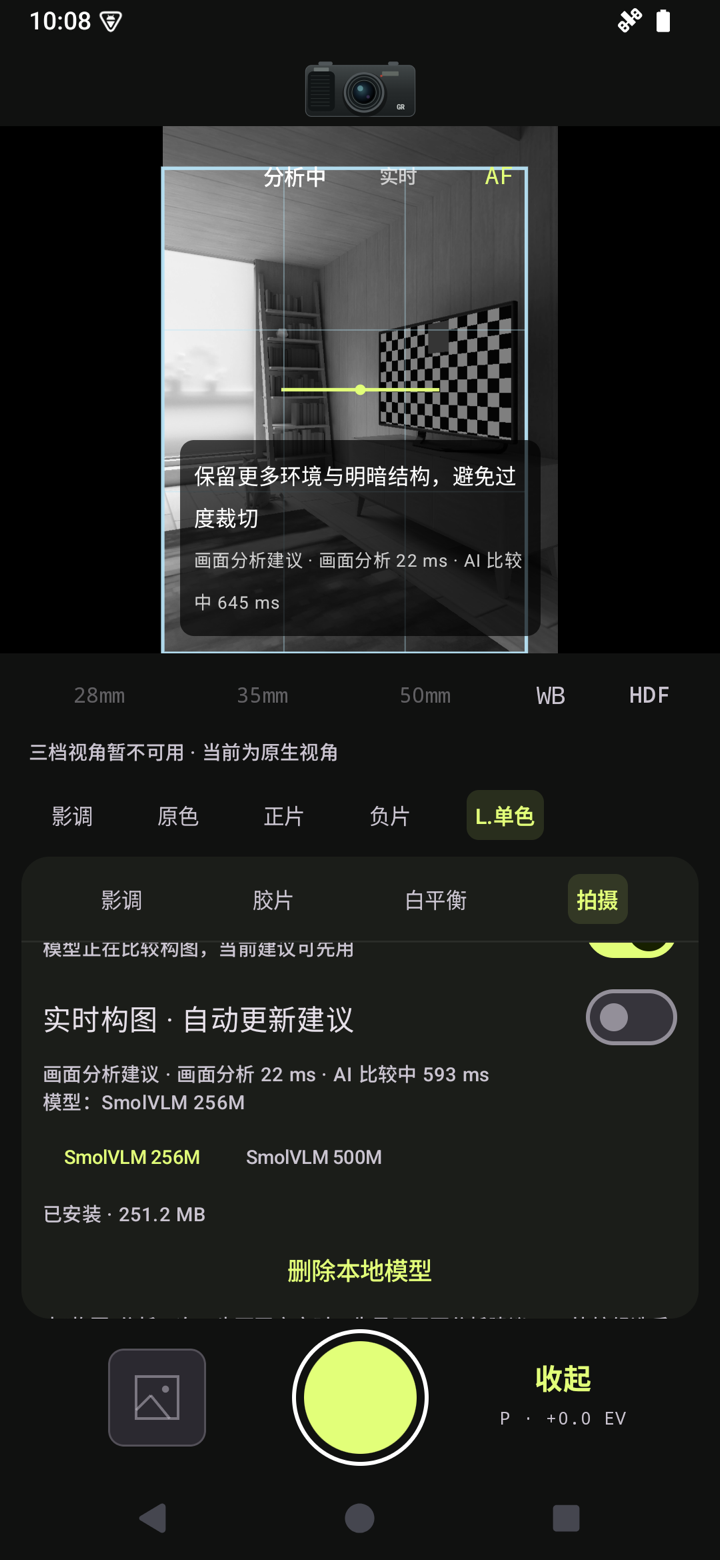
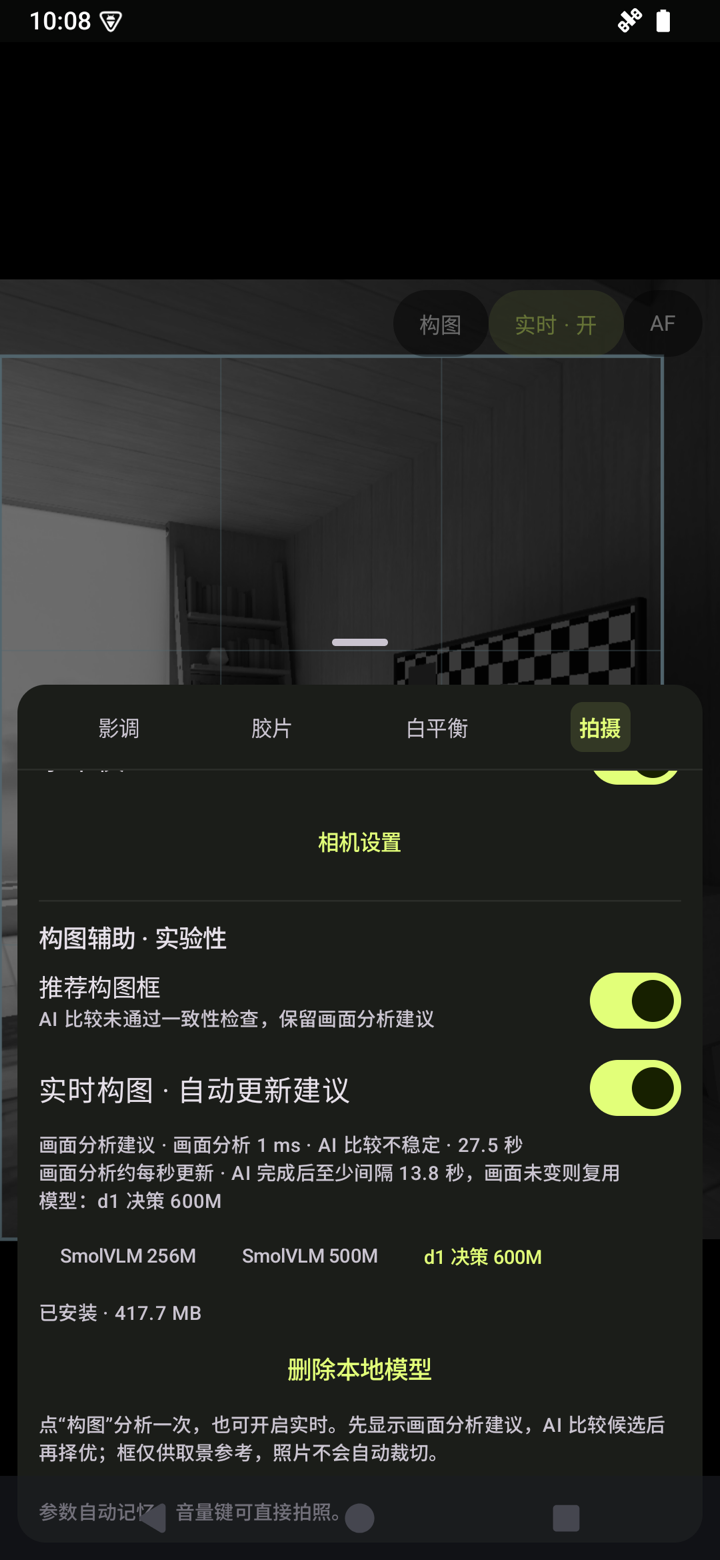
docs: refresh README for current app, d1 advisor pipeline and new UI screenshots
Rewrite the README around what the app actually is at v0.3: full-screen
viewfinder with floating shutter bar and sheeted controls, and explain
the composition advisor from two angles — a product/lifecycle diagram
(when each layer returns or falls back) and a technical diagram (rule
advisor -> contact sheet -> d1/SmolVLM ONNX ranker -> selection gate).
Replace SmolVLM-256M-as-current sections with the d1-omni-600M default
and the optional model table, trim duplicated/obsolete content, and
refresh screenshots to the new interface.

diff --git a/README.md b/README.md
@@ -1,256 +1,164 @@
 # street-snap · 途帧
 
-喜欢口袋相机，也喜欢它们各自的脾气：熟悉的视角、顺手的快门，还有一眼认得出的颜色。途帧于手机之上：收束纷扰，快门轻触，影调自调。途遇，帧藏。
+喜欢口袋相机，也喜欢它们各自的脾气：熟悉的视角、顺手的快门，一眼认得出的颜色。途帧于手机之上：收束纷扰，快门轻触，影调自调。途遇，帧藏。
 
-**street-snap: Open-source cross-platform documentary camera (iOS/Android), crafted for the serendipity of street capture.**
+**Open-source Android street camera: a full-screen viewfinder, Snap-style capture, film-inspired color, and an optional on-device composition advisor — no cloud, no account.**
 
 [![Status: Development](https://img.shields.io/badge/status-development-f59e0b?style=flat-square)](#roadmap)
 [![Android: v0.3 dev](https://img.shields.io/badge/Android-v0.3%20dev-3DDC84?style=flat-square&logo=android&logoColor=white)](#安装与发布)
-[![iOS: Later](https://img.shields.io/badge/iOS-later-64748b?style=flat-square&logo=apple&logoColor=white)](#安装与发布)
+[![iOS: Later](https://img.shields.io/badge/iOS-later-64748b?style=flat-square&logo=apple&logoColor=white)](#roadmap)
 [![License: MIT](https://img.shields.io/badge/license-MIT-3b82f6?style=flat-square)](LICENSE)
-
 [![Kotlin: 2.2.10](https://img.shields.io/badge/Kotlin-2.2.10-7F52FF?style=flat-square&logo=kotlin&logoColor=white)](#技术栈)
-[![Swift: Later](https://img.shields.io/badge/Swift-later-F05138?style=flat-square&logo=swift&logoColor=white)](#技术栈)
+[![On-device AI](https://img.shields.io/badge/on--device%20AI-optional-22c55e?style=flat-square)](#构图建议怎么跑起来的)
 
-[![Focal lengths: 28 / 35 / 50mm](https://img.shields.io/badge/focal%20lengths-28%20%2F%2035%20%2F%2050mm-64748b?style=flat-square)](#快捷街拍)
-[![Shooting: Snap](https://img.shields.io/badge/shooting-Snap-f59e0b?style=flat-square)](#快捷街拍)
-[![Custom LUT: .cube](https://img.shields.io/badge/custom%20LUT-.cube-a855f7?style=flat-square)](#行色--xingse)
-[![Recipes: JSON](https://img.shields.io/badge/recipes-JSON-22c55e?style=flat-square&logo=json&logoColor=white)](#行色--xingse)
+## 为什么做途帧
 
-## Why
+手机相机的功能越来越多，但街头抓拍没有多少时间留给菜单和模式切换。途帧以理光 GR 这类随身相机的就绪速度为参照：**启动快、操作少、体积轻**，只保留 **28 / 35 / 50mm** 三档等效视角，把准备工作前置（预设曝光、对焦、影调并自动记忆），举机即拍。
 
-手机相机的功能越来越多，但街头抓拍没有多少时间留给菜单和模式切换。
+`v0.3.0-dev` 已把拍摄前的主要决定收进一块从底部升起的控制面板：默认取景页只剩全屏画面、居中快门、焦段与一个"调整"入口；影调、胶片配方、白平衡、P/S/M 与构图模型管理都在面板里。任何手动覆盖（非自动白平衡、MF、S/M 档、EV、柔光）都会在快门上方显示一枚小药丸：点按直达对应设置，**长按一键复位**，避免忘记手动状态毁掉整组照片。
 
-途帧只保留 **28 / 35 / 50mm** 三档等效视角，搭配 Snap 快拍和可自定义的影调，让取景、设定和按下快门成为熟悉的拍摄习惯。
+- **举起即拍**：快门居中、零确认、无边框打印；音量键可当快门；点按对焦、长按锁焦。
+- **三档视角**：28 / 35 / 50mm 等效焦段（按设备 Camera2 能力开放，不支持的档位不点亮）。
+- **真实手动能力**：P / S / M 曝光档、EV、AF / MF、白平衡预设与 A–B / G–M 漂移、HDF 软件柔光；固定光圈手机不伪造 A 档。
+- **行色调色**：原色、正片、负片、粉末蓝、高反差黑白、晴街等内置影调，7 套参考真实胶片型号调校的配方，支持导入 `.cube` LUT，每套影调十项参数独立微调并记忆。
+- **本地构图辅助（实验性）**：取景器上实时显示推荐构图框和一句中文建议；规则层免下载直接可用，端侧模型按需下载、全程离线。
+- 免费、无广告、无内购。照片直接写入系统相册（带 EXIF JPEG），不读取图库。
 
-街头抓拍留给你的时间很短。以理光 GR 这类随身相机快速就绪的抓拍体验为参照，途帧希望做到**启动快、操作少、体积轻**，抓住街头的决定性瞬间。
+> **Android 预览开发中，最低 Android 12。** 首测真机为荣耀 Vs3；相机能力、折叠屏与性能数据仍以真机验证为准，模拟器截图不代表实拍效果。iOS 后续启动。
 
-**预设参数 → 快速启动 → 取景确认 → 按下快门**
+## 界面
 
-借鉴 **Snap 快拍**的思路，把准备工作前置：提前设好曝光参数，并在设备支持时预设对焦，减少拍摄时的临场调整。举机取景时，通过参考框、网格、水平仪和影调预览确认画面；熟悉视角后，也可以尝试不看屏幕的盲拍。
+| 全屏取景与构图建议 | 控制面板（底部浮层） | 端侧模型管理 |
+| :---: | :---: | :---: |
+| <img src="docs/images/viewfinder.png" width="250" alt="途帧取景界面：全屏预览、三分网格、推荐构图框与中文建议、底部悬浮焦段条、居中快门与调整入口"> | <img src="docs/images/camera-picker.png" width="250" alt="相机摆件选择器与自动、横持、竖持取景方向"> | <img src="docs/images/edge-models.png" width="250" alt="构图辅助设置：实时开关、三个可选端侧模型、已安装 417.7MB 的 d1 决策 600M"> |
 
-围绕这条拍摄流程，计划做到：
+第一张为模拟器内置测试房间实拍截图；蓝色框是画面分析（规则）建议，黄色框只在端侧模型通过门闸采纳时出现。宽横屏（≥600dp）自动切换为侧边控制栏，单手触达。
 
-- **Fast launch · 极致启动**：精简初始化，快速进入可拍状态。
-- **28 / 35 / 50mm**：三档经典等效视角，用熟悉的取景范围形成构图直觉。
-- **Snap first**：提前设好参数，服务于举机快拍与熟悉视角后的盲拍。
-- **Live view**：在取景时看到构图辅助、参数变化和影调效果。
-- **Custom LUTs**：加载自己的 LUT，调整影调参数，保存为配方。
-- **Small footprint**：精简依赖，结合代码裁剪与资源压缩，尽可能缩小安装包体积。
-- **Fork & tweak**：拍摄、调色代码和内置预设一同开源，欢迎修改代码、制作预设、提交 PR。
+## 构图建议怎么跑起来的
 
-### 当前 Android 预览
+点一下取景器上的 **构图** 分析当前帧，也可以开 **实时**：规则层每秒约 2–4 次产出候选，模型低频复核。推荐框只用于帮助取景，**照片永远保存完整画面**，不会自动裁切，也不改变曝光、对焦或变焦。
 
-`v0.3.0-dev` 已把拍摄前的主要决定收进取景界面：28 / 35 / 50mm 视角、P / S / M 曝光档、EV、AF / MF、白平衡与 A–B / G–M 漂移、HDF 柔光和按相机分类的影调。**复位**会回到 P、EV 0、解除焦点锁并在设备支持时恢复 AF，同时保留焦段、白平衡和当前影调。固定光圈的手机不会伪造 A 档；S / M 也只在 Camera2 报告相应能力时出现。取景方向可以在自动、横持和竖持之间选择，横持布局会把主要控制集中到侧边，方便街拍时单手触达。
-
-拍摄完成后直接保存带 EXIF 的 JPEG，不再叠加边框、日期或“已保存”确认流程。影调卡片使用真实存在的胶片型号作为风格参考，包装图形和配方由项目独立绘制，不代表厂商原厂输出。
-
-项目坚持免费、无广告、无内购。
-
-> **Android 一期开发中，最低支持 Android 12。** 仓库已包含应用源码，首测设备为荣耀 Vs3；相机、GPU 与折叠屏行为仍需真机验证。iOS 后续启动。详见 [一期计划](docs/android-v0.1-plan.md) 与 [开发说明](docs/android-development.md)。
-
-[功能规划](#功能规划) · [技术栈](#技术栈) · [Roadmap](#roadmap) · [安装与发布](#安装与发布) · [Contributing](#contributing) · [开源协议与名称使用](#开源协议与名称使用)
-
-## 功能规划
-
-以下为完整产品范围。一期优先完成 Android 拍照与行色流程，具体支持范围以版本说明和真机验证结果为准。
-
-### 快捷街拍
-
-- **Snap 快拍**：保存并快速调用曝光、影调等常用设置；在镜头与系统 API 支持时预设或锁定对焦，减少拍摄时等待自动对焦的过程。
-- **预设对焦与景深**：规划支持区域对焦的使用方式，让预先选定的距离范围保持可接受的清晰度；可用的对焦设置与实际清晰范围需按镜头验证。
-- **三档视角**：28mm / 35mm / 50mm 等效焦段，一键切换。
-- **盲拍与单手操作**：音量键快门、ADJ 式参数快调，减少对屏幕操作的依赖。
-- **构图辅助**：点“构图”分析当前画面，显示推荐构图框与一句建议；也可开启实时更新。先用图像分析生成候选，再由本地模型比较，分别标明建议来源。
-- **对焦辅助**：规划实时黑白取景与峰值对焦，帮助观察光影和判断手动对焦范围。
-
-手机同样有景深与超焦距的概念，部分广角镜头可以利用较大景深获得近似“泛焦”的效果。Snap 指预设后快速拍摄的方式；泛焦描述较大范围内可接受清晰的效果，实际范围取决于镜头、对焦设置与清晰度要求。
-
-#### Local-first composition · 本地构图（实验性）
-
-点一下取景器上的 **构图**，得到推荐的画面范围与一句中文建议；**实时**开关可选。推荐框用于帮助取景，照片仍保存完整画面，不自动改变曝光、对焦或变焦。这里需要的是构图裁切建议，当前界面不显示主体检测框。
+### 业务视角：一次建议的生命周期（什么时候返回、什么时候放弃）
 
 ```text
-点“构图” / 开启实时
-  → 当前取景帧
-  → 图像对比、边缘、视觉重心、三分位置、裁切风险
-  → 三个合法裁切候选 → 立即显示“画面分析建议”＋一句中文提示
-                        └→ A/B/C 裁切对照图 → 本地 SmolVLM 比较
-                            → 支持度、差距、换序一致性与场景校验 → 有依据才更新为“AI 选择”
+举起手机（快门始终独立可用，构图分析永不阻塞拍摄）
+  │
+  ├─ 点「构图」   → 只分析这一帧
+  └─ 开「实时」   → 每 ~250ms 规则分析一帧；模型完成后冷却 3–15s，画面不变就复用
+        ▼
+  规则层 FastCompositionAdvisor（纯 Kotlin 图像统计，通常 1–10ms）
+        ▼
+  ① 立即返回：画面分析建议——一个框 + 一句中文建议，先有东西可看
+        ▼
+  需要模型复核吗？（低纹理 / 未装模型 → 否，流程到此结束）
+        ▼ 是
+  本地模型对同一帧的 A/B/C 三个候选做一次"选择题"（单并发，30s 总预算）
+        ▼
+  门闸：领先差距足够大？换序后选择一致？场景没变化、帧没过期？
+     ├─ 全部通过 → ② 升级为「模型选择」黄框（文案仍来自规则理由，不伪造模型发言）
+     └─ 任一不过 → 保持 ① 的蓝框，界面如实标注"AI 比较不稳定/超时"
+        ▼
+  画面明显变化 → 旧框立即失效；静止场景 → 同框同文案不重发，减少闪烁
 ```
 
-**先提供可见建议，再做模型比较。** 快速算法直接从当前图像计算坐标；模型只比较候选，不再尝试生成四个坐标。SmolVLM 的视觉编码、文本嵌入、解码器是同一个模型的三个 ONNX 部件。每个候选排列使用一次视觉编码与一次 decoder prefill，读取 A/B/C 的 token 分数，不生成长段文字。首轮有选择时再循环换序比较，只有映射回同一候选才采纳；低纹理画面跳过模型。Compose 负责画框和显示中文提示，提示来自候选的规则理由，不伪装成模型自由生成的解释。
+关键产品原则：**先给可见建议，再做模型比较；模型任何环节失败，体验都退回到规则层而不是空白。** 模型输出的只是"A/B/C 选谁"，不直接生成坐标，框坐标始终来自 App 自己的规则层。
 
-画面分析和模型比较分别显示耗时。模型未安装、加载中、未明确选择或失败时，仍可显示来源明确的画面分析建议；场景变化后清除旧结果。手动模式一次请求完成即停止分析；实时模式低频更新，模型单并发、完成后冷却，静止场景复用结果，快门独立可用。
+### 技术视角：推理链路上每一环是什么
 
-此前“无有效框”源于任务适配问题：真实图像已送入模型，但直接生成坐标常得到全零、残缺内容或描述。构图质量不能靠“能返回 A/B/C”证明；需要测试候选重排、内容变化、低纹理画面和人工偏好。更懂构图的准备阶段应包括评价标准、许可清楚的裁切样本、人工优劣标注、独立测试集，再评估是否训练/微调及量化。本项目本轮未训练模型。完整前置与运行 SOP 见 [端侧构图建议 SOP](docs/composition-pipeline-sop.md)。
-
-当前运行 `SmolVLM 256M`，本地内置包使用已有固定 revision 的 `cpu-int8` 配置，7 个运行文件共 251.24 MiB。默认 Preview 不含权重，显式内置包约 300 MB，首次在前台启用构图辅助时导入。`compact` 173.9 MiB 配置保留供对照；YOLO 和 d1-omni 没有接入，本轮推荐框不依赖它们。模型与分发细节见 [模型附录](docs/edge-model-plan.md)。荣耀 Vs3 的速度、温升和主观构图质量仍需真机评估。
-
-本轮模拟器已实际显示推荐框和中文建议：规则首次计算69 ms、再次47 ms，实时预热后多数1–5 ms；这些数值不包含取帧和显示调度。SmolVLM候选换序和纯色对照暴露了位置偏好，因此增加一致性检查。前台双排列比较样本约9.5–11.4秒，未给出可采纳选择时保留规则框；不能宣称模型已经懂构图。手动/实时、横屏重绑、旧结果失效与推理中拍照已验证，细节见SOP。
-
-本地模型内置构建（权重不会进入 Git）需要先准备 `/Users/haoxuanli/Downloads/street-snap-models/smolvlm-256m/`，然后执行：
-
-```sh
-mkdir -p .tooling
-python3 scripts/check_smolvlm_bundle.py \
-  "$HOME/Downloads/street-snap-models/smolvlm-256m" \
-  --profile cpu-int8 --manifest .tooling/first-frame-cpu-int8-manifest.json
-./gradlew :app:assembleDebug \
-  -PedgeModelDir="$HOME/Downloads/street-snap-models/smolvlm-256m" \
-  -PedgeModelManifest=.tooling/first-frame-cpu-int8-manifest.json --offline
+```text
+CameraX ImageAnalysis（YUV → 独立 RGB 帧 + 场景签名）
+        │
+        ▼
+FastCompositionAdvisor（Kotlin 规则，不是神经网络）
+  96px 缩略图：Sobel 边缘与梯度方向 · 视觉重心 · 分带能量 · 左右对称 ·
+  三分位置契合 · 边缘切割风险 · 裁切信息保留率
+        │ 3 个等比例合法裁切框 + 构图风格标签 + 中文理由（11 类构图语言）
+        ▼
+CandidateContactSheet：同一帧三个裁片拼成 A/B/C 对照图
+        │ （不夹带规则分数/高亮，防止把排序泄露给模型）
+        ▼
+CandidateRanker —— 本地 ONNX Runtime（arm64 精简切片，约 6.7MB）
+  ├─ d1-omni-600M「d1 决策 600M」——当前推荐，417.7MB，q4 量化
+  │    vision_encoder（512² / 32×32 patch）→ embed_tokens（官方 prompt.py
+  │    选择序列）→ decision_q4 双向决策头：零生成 token，
+  │    直接对 A/B/C 三个 marker 的 logits softmax
+  └─ SmolVLM 256M / 500M —— 可选对照，cpu-int8 量化
+       vision + text embeddings + decoder prefill：读末位 A/B/C logits，
+       同样不生成坐标文本
+        ▼
+CandidateSelectionGate（实验阈值 0.10，未经审美标注校准）
+  top-1/top-2 概率差 · 首轮选择后换序再比一次须一致 ·
+  场景/帧龄校验 · 30s 预算 · 推理忙时直接返回 null
+        ▼
+Compose 叠加层：框（黄=模型选择 / 蓝=画面分析）+ 中文建议 + 来源与耗时
 ```
 
-校验脚本只使用已有本地文件；`cpu-int8` 要求三张图均为 Int8，不会静默混入 Q4。`edgeModelDir` 配合 `edgeModelManifest` 只打包清单选中的 7 个运行文件，普通 `assemblePreview` 会清理残留 staging。模型、清单与 APK 均不提交 Git；较小的 `compact` 配置及复现细节见模型附录。
+模型权重 **不随 APK 分发**：在"调整 → 拍摄 → 构图辅助"里显式下载、校验 SHA-256、可随时删除。三个模型固定 Hugging Face revision：
 
-### 行色 / Xingse
+| 模型 | 大小 | 形态 | 许可 |
+| --- | --- | --- | --- |
+| d1-omni-600M（默认） | 417.7MB | 视觉决策模型，marker 选择题，零生成 token | LFM Open License v1.0 |
+| SmolVLM 256M | 251.2MB | 小型 VLM，decoder prefill 读选项分 | 模型方许可 |
+| SmolVLM 500M | 约 347MB | 同上，更大规格 | 模型方许可 |
+
+**证据纪律**：模型目前的状态是 loaded-only——链路在 Android 模拟器真版权重上跑通（一轮 margin 0.21 采纳、一轮超时降级均符合契约），但合成探针评测显示小模型存在明显的位置偏好（见 [SOP](docs/composition-pipeline-sop.md)），一次加强题面的 prompt 改版经 20 张隔离 sheet 预注册评测被否决、已回退锁定。**"能返回 A/B/C"不构成审美证据**，下一步质量证据来自独立人工标注照片集；真机速度（荣耀 Vs3）同样待验。详见 [端侧构图建议 SOP](docs/composition-pipeline-sop.md) 与 [端侧模型说明](docs/edge-model-plan.md)。
+
+## 行色 / Xingse
 
 > 沿途所见，自有其色。
 
-「行色」是途帧的调色模块，使用 **3D LUT** 调整颜色，并提供颗粒、暗角等效果。Android 首版支持导入 LUT、调整参数和本地参数记忆；配方分享后续支持。你也可以直接修改调色代码。
+「行色」是调色模块，使用 **3D LUT** 调整颜色，并提供颗粒、暗角等效果；取景预览与成片共用同一套算法。
 
-- **内置影调**：原色、正片、负片、粉末蓝、黑白、晴街，均为独立创作的预设。
-- **参考风格**：参考理光 GR、富士、适马、松下等相机作品中的纪实影调，自主调校色彩，以独立预设名称呈现。
-- **LUT I/O**：支持 SDR `.cube` LUT 导入；导出后续支持。
-- **JSON 配方**：本地保存拍摄参数与各套影调的调节值，配方分享后续支持。
-- **质感调节**：饱和度、锐度、清晰度、颗粒、暗角等参数可调，并提供软件柔光。
-- **实时预览**：取景与成片共用调色算法，通过真机验证逐步改善流畅度及效果一致性。
-- **源码与预设**：调色代码与内置影调预设随项目一同开源，欢迎修改和分享。
-
-Android 开发版提供原色、正片、负片、粉末蓝、黑白、晴街六套影调，支持自定义 LUT。正片、负片参考 GR 同类影调方向，粉末蓝参考适马官方描述，均由项目独立调校；效果需结合手机实拍评估。
-
-每套影调可单独调整饱和度、色相、对比、亮度、高光、阴影、锐度、清晰度、颗粒与暗角。HDF 按钮切换软件高光柔光，WB 提供设备支持的白平衡预设及 A–B / G–M 漂移。常用控制集中在快门附近，调参时保留取景。详见 [v0.2 试拍说明](docs/android-v0.2-notes.md)。
-
-以下为影调命名与后续调校方向：
-
-| 影调 | 设计方向 |
-| --- | --- |
-| 晴街 | 明亮、通透，适合日光下的街头 |
-| 暮巷 | 低饱和、暖高光，适合傍晚与巷陌 |
-| 夜行 | 冷色暗部，保留夜色与霓虹的层次 |
-| 街影 | 高对比黑白，强调人物轮廓与光影 |
-
-影调效果用于预览和处理后的照片。若同时保存 RAW，RAW 文件保留原始图像数据，不将影调效果直接写入原始数据。
-
-### 图像与拍摄参数
-
-- 保存处理后的照片，并在设备及系统 API 支持时提供 RAW / DNG 输出。
-- 写入系统可提供的 EXIF 拍摄元数据；位置等敏感信息的写入方式将在权限设计中明确。
-- 规划使用 JSON 保存和分享拍摄参数方案；导入时根据设备能力检查适配情况。
-- P / S / M 映射到真实 Camera2 曝光控制；固定光圈设备不模拟 A 档，设备不支持的档位不会显示。
-- 「复位」恢复 P、EV 0、焦点锁和 AF（设备支持时），保留焦段、白平衡与影调配方。
-
-### Native camera APIs
-
-Android 已通过 CameraX / Camera2 接入原生相机，提供取景、拍摄和设备支持的手动控制能力。iOS 后续接入 AVFoundation。
-
-手动对焦、曝光控制、RAW 输出、按键映射与快门声音控制均受系统、设备及地区限制；快门静音仅在系统允许时提供。
-
-### 流畅取景与响应
-
-为取景、调参和拍摄提供流畅体验，计划重点优化：
-
-- **Shader Fusion**：合并 LUT、颗粒与暗角计算，减少 GPU 渲染 Pass。
-- **Buffer Sharing**：共享相机图像缓冲、复用 GPU 纹理，减少数据拷贝与内存分配。
-- **Backpressure**：预览优先处理最新帧，避免画面积压带来的延迟。
+- **内置影调**：原色、正片、负片、粉末蓝、高反差黑白、晴街等，均为独立创作预设。
+- **胶片配方**：VISION3 250D/500T/50D、EKTAR 100、PORTRA 400、FUJICOLOR C200、TRI-X 400 七套配方，以真实存在的胶片型号为风格参考，包装图形与参数由项目独立调校，不代表厂商原厂输出。
+- **LUT I/O**：支持 SDR `.cube` 导入；导出与配方分享后续支持。
+- **微调**：每套影调单独记忆饱和度、色相、对比、亮度、高光、阴影、锐度、清晰度、颗粒、暗角。
+- 调色代码与预设随仓库开源（见 [独立项目声明](#独立项目声明)）。
 
 ## 技术栈
 
-Android 使用原生实现；iOS 暂留后续方案。首版不引入共享原生运行时或跨平台界面框架。
-
-| 部分 | 建议方案 | 用途 |
-| --- | --- | --- |
-| Android | Kotlin + Jetpack Compose + CameraX / Camera2 interop | 界面、取景、拍照及设备支持的手动控制 |
-| 行色 | OpenGL ES 3.0 / GLSL | LUT、颗粒、暗角；预览与照片共用效果算法 |
-| 快速构图候选 | Kotlin 图像统计、积分图评分 | 根据内容保留、三分位置、视觉平衡与边缘裁切风险生成合法框，提供中文理由 |
-| 低频候选比较 | SmolVLM 256M CPU Int8 + ARM64 ONNX Runtime | 每个排列一次视觉编码与解码预填充比较 A/B/C，完整词表支持度、候选差距与换序一致性门闸 |
-| 构图交互与叠加 | Compose + CameraX ImageAnalysis | 默认手动、可选实时；框与一句建议、来源和耗时；场景变化失效 |
-| iOS（后续） | Swift + SwiftUI + AVFoundation；Core Image / Metal | 原生拍摄与实时调色 |
-| 预设文件 | `.cube` + JSON | LUT、影调参数与拍摄参数配置 |
-
-Android 按 `app / camera / color` 分模块，分别处理交互与保存、相机会话、LUT 与 GPU 效果。照片在后台处理后写入系统相册，预览不逐帧转换为 Bitmap。
-
-Rust 可作为后续共享模块的候选，用于 LUT 解析、配方校验或确有复用价值的算法；实时效果仍主要由 GPU 执行。
-
-## Roadmap
-
-Android v0.3 开发预览已提供可安装 APK。当前优先完善拍摄体验与设备验证，再推进 iOS。
-
-- [x] **Design**：确认 Android 一期范围、最低系统版本与首测设备。
-- [x] **Android 基础拍摄**：取景、拍照、三档视角、Snap 参数记忆、实时影调、LUT 导入和 JPEG 保存；源码与本地构建已完成。
-- [x] **影调与操作**：正片、负片、粉末蓝、每套影调独立微调、软件柔光、白平衡与漂移；已实现，效果继续实拍调校。
-- [x] **Android Preview**：v0.3.0-dev，支持 Android 12 及以上版本；包含 AF/MF 双向切换、P/S/M 曝光档、白平衡漂移、HDF 柔光、胶片分类和可选端侧构图辅助。
-- [ ] **Composition quality**：推荐框与中文建议采用“图像候选先显示、模型异步比较”；继续以候选重排、独立画面和人工偏好评估构图质量，不把合法框或输出格式当作审美通过。前置标注/训练流程见 SOP，本轮没有训练新模型。
-- [ ] **Device validation**：荣耀 Vs3 真机测试、折叠屏适配、预览与成片对照及性能基线。
-- [ ] **Advanced controls**：RAW / DNG、峰值辅助、配方分享、完整 ADJ 式快捷操作。
-- [ ] **iOS**：复用产品交互与配方规范，接入 iOS 原生相机和调色实现。
-
-当前源码已增加 AF/MF 明确切换、点按对焦反馈、P/S/M 曝光档、7 套胶片配方与可选端侧构图辅助。边框和日期打印已移除，照片直接保存为带 EXIF 的 JPEG；实现记录见 [胶片与对焦说明](docs/film-and-focus.md)，模型边界见 [端侧模型说明](docs/edge-model-plan.md)。
-
-## Interface
-
-| 取景与快拍 | 相机外观与持握 | 端侧模型选择 |
-| :---: | :---: | :---: |
-| <img src="docs/images/viewfinder.png" width="250" alt="途帧最新取景界面，显示推荐构图框、中文建议、主动构图和实时开关"> | <img src="docs/images/camera-picker.png" width="250" alt="途帧相机选择器，包含五个相机摆件和自动、横持、竖持方向"> | <img src="docs/images/edge-models.png" width="250" alt="途帧端侧构图辅助设置，包含分阶段耗时、实时开关和已安装 251.2 MB 状态"> |
-
-Android 15 模拟器实际截图，取景为内置测试场景。第一张和第三张来自本轮 CPU Int8 调试包，展示推荐构图框、主动构图与实时入口、分阶段耗时及“已安装 · 251.2 MB”；第二张展示相机外观和自动/横持/竖持方向。内置包约 300 MB，默认 Preview APK 仍不带权重；实拍效果和设备支持范围以真机为准。
+| 部分 | 方案 |
+| --- | --- |
+| Android | Kotlin 2.2.10 + Jetpack Compose + CameraX / Camera2 interop |
+| 模块 | `app`（交互/保存/构图）· `camera`（相机会话与帧管线）· `color`（LUT 与 GPU 效果） |
+| 调色 | OpenGL ES 3.0 / GLSL，预览与成片共用 |
+| 规则构图 | Kotlin 图像统计（积分图/Sobel/分带能量），11 类构图语言 |
+| 端侧推理 | ONNX Runtime 1.22（arm64 裁剪 AAR）；d1-omni-600M 与 SmolVLM 256M/500M 按需下载 |
+| iOS（后续） | Swift + SwiftUI + AVFoundation / Metal |
+| 预设文件 | `.cube` + JSON |
 
 ## 安装与发布
 
-**Android 版已可安装，最低支持 Android 12。**
+**Android 版可安装，最低 Android 12。** 体验最新代码：打开组织仓库的 [Actions → Android CI](https://github.com/light-witness-lab/street-snap/actions/workflows/android.yml)，选一次成功运行，在摘要下载 **Preview APK**（制品保留 30 天，需登录 GitHub）。CI 包包名独立、显示「途帧 CI」，可与正式版并存。
 
-[获取 APK](#ci--apk) · [Android 构建说明](docs/android-development.md)
-
-下载后在手机上打开 APK，按系统提示允许本次安装。已安装同签名开发版时，直接覆盖安装可保留拍摄参数与影调设置，无需卸载。
-
-这是用于试拍与反馈的 **Preview 开发预览**：采用开发测试签名、非调试构建，启用 R8 与资源裁剪。v0.3 构建先通过 CI 或本地 Build 产出，真机验证后再创建 Release；机型兼容性、预览与成片一致性、折叠屏行为及性能仍需验证，详见 [Android 试拍说明](docs/android-v0.2-notes.md)。
-
-**iOS** 后续开发，TestFlight 入口将在可用时公布。
-
-## Build
-
-环境：JDK 17、Android SDK Platform 37.0、Build Tools 36.0.0。Gradle Wrapper 与依赖版本已固定。
-
-在 `local.properties` 配置 `sdk.dir`，或设置 `ANDROID_HOME`，然后运行：
+Preview 是开发测试签名的非调试构建（启用 R8 与资源裁剪，约 21MB，不含模型权重）。覆盖安装同签名版本可保留拍摄参数。本地构建见 [Android 开发说明](docs/android-development.md)，CI 与签名发布见 [CI 与版本发布](docs/ci-and-releases.md)。**iOS** 后续开发。
 
 ```sh
+# JDK 17 + Android SDK（compileSdk 37）
 ./gradlew :app:assemblePreview
+# 产物：app/build/outputs/apk/preview/app-preview.apk
 ```
 
-输出：`app/build/outputs/apk/preview/app-preview.apk`。调试可使用 `:app:assembleDebug`；构建、测试与设备验收步骤见 [Android 开发说明](docs/android-development.md)。
+## Roadmap
 
-### CI → APK
-
-[![Android CI](https://github.com/light-witness-lab/street-snap/actions/workflows/android.yml/badge.svg)](https://github.com/light-witness-lab/street-snap/actions/workflows/android.yml)
-
-| 触发 | 产出 |
-| --- | --- |
-| 推送到 `main` / PR / 手动运行 | 构建、测试、Lint；提供 Preview / Debug APK 与 SHA-256 |
-| `v*` 版本标签 / 手动指定标签 | 固定签名 APK、SHA-256 与 Release 草稿 |
-
-体验最新代码：打开 [Actions → Android](https://github.com/light-witness-lab/street-snap/actions/workflows/android.yml)，选择成功的运行，在摘要下载 **Preview APK**，解压后安装。CI 制品保留 30 天，下载需要登录 GitHub。
-
-CI 包使用独立包名，显示为「途帧 CI」，可与公开版并存；临时签名变化时需卸载旧 CI 包。长期使用请下载 [Releases](https://github.com/light-witness-lab/street-snap/releases)。标签发布需要先配置签名 Secrets，步骤见 [CI 与版本发布](docs/ci-and-releases.md)。
+- [x] Android 基础拍摄：取景、拍照、28/35/50mm、参数记忆、实时影调、LUT 导入、EXIF JPEG
+- [x] 手动能力：P/S/M、EV、AF/MF、白平衡漂移、HDF 柔光；设备不支持的档位不显示
+- [x] 全屏取景器改造：控制面板收纳进底部浮层、手动覆盖可见且可一键复位（行业调研见 [camera-ui-research.md](docs/camera-ui-research.md)）
+- [x] 双分支构图管线：规则层独立可用 + d1/SmolVLM 端侧择优，含换序一致性门闸、背压与场景失效契约
+- [ ] 构图质量：独立人工标注照片集，评估规则首选与模型重排的真实偏好改善
+- [x] 性能：连续串行推理，规则层模拟器实测约 2.4 次/秒（0.87 → 2.4）；真机帧率、温升与功耗待 Vs3
+- [ ] 设备验证：荣耀 Vs3 真机、折叠屏、预览与成片一致性
+- [ ] 高级控制：RAW/DNG、峰值对焦、配方分享与导出
+- [ ] iOS：复用产品交互与配方规范
 
 ## Contributing
 
-欢迎通过 [Issue](https://github.com/light-witness-lab/street-snap/issues) 讨论方案，通过 PR 贡献实现。当前优先完善 Android 一期拍摄流程、设备适配与行色效果。
-
-- **Camera**：原生相机接入、参数控制、设备适配。
-- **Color**：独立创作的 LUT、影调配方与调色代码。
-- **UX & Docs**：单手操作、取景界面、开发与预设制作文档。
-- **Device testing**：安装开发预览试拍，反馈机型、系统版本、相机能力与复现步骤。
-
-提交影调预设时，请附上创作说明、来源与许可信息，并确保你有权以项目采用的许可证发布该内容。请勿提交从相机原厂固件中直接提取的色彩文件，或无权再分发的第三方 LUT。
+欢迎通过 Issue 讨论、PR 贡献：相机原生接入与设备适配（Camera）、独立创作的 LUT 与影调配方（Color）、单手操作与取景体验（UX & Docs）、真机试拍反馈（Device testing）。提交影调预设请附创作说明与许可信息，请勿提交原厂固件提取的色彩文件或无权再分发的第三方 LUT。
 
 ## 独立项目声明
 
-途帧是摄影爱好者发起的独立开源项目，与理光（Ricoh）、富士（Fujifilm）、适马（Sigma）、松下（Panasonic）等厂商无关联、隶属或授权关系。
-
-项目内置影调预设均为独立创作，不使用从原厂固件直接提取的色彩文件，也不代表原厂相机的成像效果。文中涉及的商标归各自权利人所有。
+途帧是摄影爱好者发起的独立开源项目，与理光、富士、适马、松下、柯达等厂商无关联、隶属或授权关系。内置影调与胶片配方均为独立创作，仅以真实胶片型号作为风格参考，不代表原厂成像效果；文中商标归各自权利人所有。
 
 ## 开源协议与名称使用
 
-项目代码与内置影调预设采用 [MIT License](LICENSE)，允许在保留版权与许可声明的前提下使用、修改、分发及商业使用。第三方素材须单独标明许可。
-
-MIT License 不授予项目名称与标识的商标权。请勿将「途帧」「street-snap」及项目标识用于商标抢注或冒用本项目官方身份；名称与标识的品牌保护安排将另行说明。
+项目代码与内置影调预设采用 [MIT License](LICENSE)，允许在保留版权与许可声明的前提下使用、修改、分发及商业使用；第三方素材（端侧模型权重、ONNX Runtime）按各自许可分发。MIT 不授予「途帧」「street-snap」名称与标识的商标权，请勿抢注或冒用官方身份。

diff --git a/docs/images/README.md b/docs/images/README.md
@@ -1,13 +1,13 @@
 # 界面截图
 
-三张图片来自本轮内置 CPU Int8 模型的实际 Debug APK，运行于 Android 15（API 35）ARM64 模拟器。取景是模拟器内置 virtualscene 测试房间，截图不代表荣耀 Vs3 真机或实际摄影效果。
+三张图片来自安装在 Android 15（API 35）ARM64 模拟器上的 Preview APK（2026-10-18，全屏取景器新 UI）。取景为模拟器内置 virtualscene 测试房间，截图不代表荣耀 Vs3 真机或实际摄影效果。
 
-- `viewfinder.png`：可见推荐构图框、对应中文建议、来源和分阶段耗时，以及主动“构图”按钮和可选“实时”入口。
-- `camera-picker.png`：相机形象与横持/竖持选项。
-- `edge-models.png`：构图辅助、实时开关、模型选择和已安装251.2MB状态。
+- `viewfinder.png`：全屏取景器、三分网格、画面分析（规则）推荐框与中文建议卡；底部渐变浮层上为焦段分段条、缩略图、居中快门与"调整"入口；顶部为构图/实时/AF 胶囊。
+- `camera-picker.png`：控制面板"影调"分区的相机摆件选择与取景方向（自动/横持/竖持）弹窗。
+- `edge-models.png`：控制面板"拍摄"分区底部的构图辅助管理——实时开关、三个可选端侧模型（SmolVLM 256M/500M、d1 决策 600M）与已安装 417.7MB 状态。
 
-蓝色推荐框来自当前图像统计，绿色AI框只有真实模型选择且通过候选换序一致性检查才会显示。中文提示来自候选的规则理由。模型未明确选择时保留画面分析建议，不伪造AI成功。
+蓝色推荐框来自当前图像统计（画面分析建议），黄色框只在端侧模型选择通过领先差距与候选换序一致性门闸后出现。中文提示来自候选的规则理由，不伪装成模型生成。模型未选择、超时或未安装时保留画面分析建议。
 
-截图直接用ADB screencap取得，原始1080×2340按比例缩至720×1560；不拼接取景或虚构控件。UI截图为README展示材料，原始测试输入与照片仅保存在被Git忽略的本地目录。三档焦段按设备能力开放，模拟器显示原生视角。
+截图用 ADB screencap 取得，原始 1080×2340 按比例缩至 720×1560；不拼接取景或虚构控件。UI 截图为 README 展示材料，原始测试输入与照片仅保存在被 Git 忽略的本地目录。三档焦段按设备能力开放，该模拟器 HAL 不报告数字变焦故显示为不可用灰态，真机行为可能不同。
 
-更新截图时同步检查README描述。默认Preview不带权重，本轮显式内置调试包约300MB；不能仅看默认Preview包体判断模型是否存在。
+更新截图时同步检查 README 与本文件描述。默认 Preview APK 不带权重（约 21MB），模型在 App 内显式下载；不能仅看默认包体判断模型是否存在。
